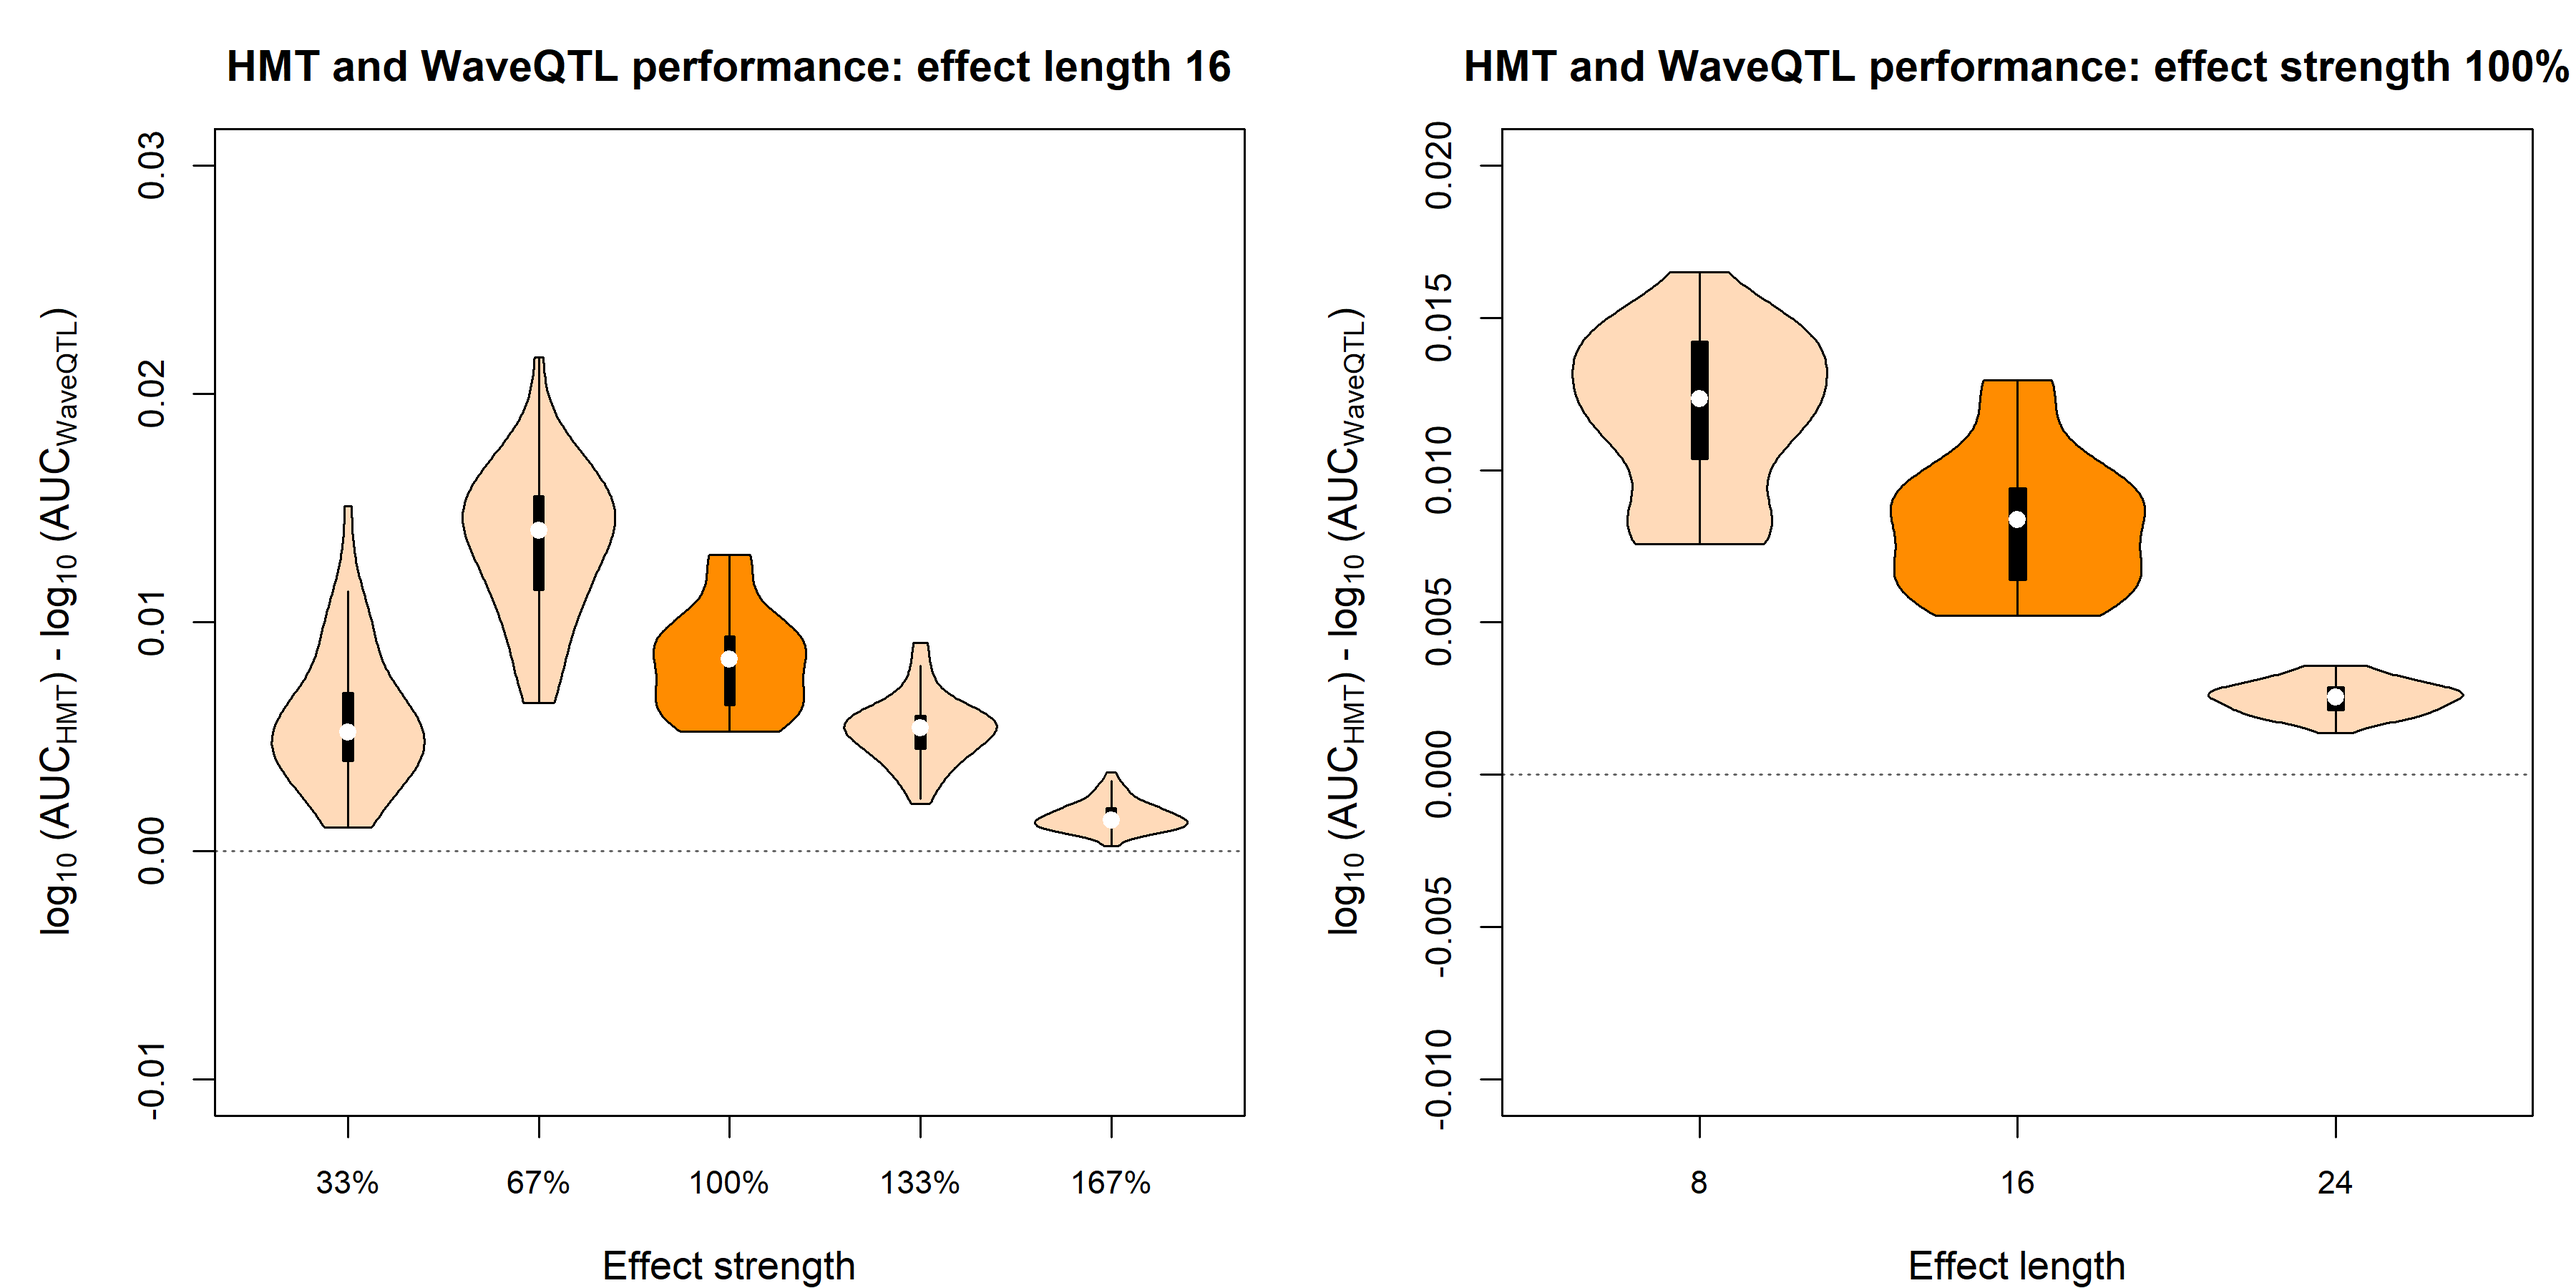
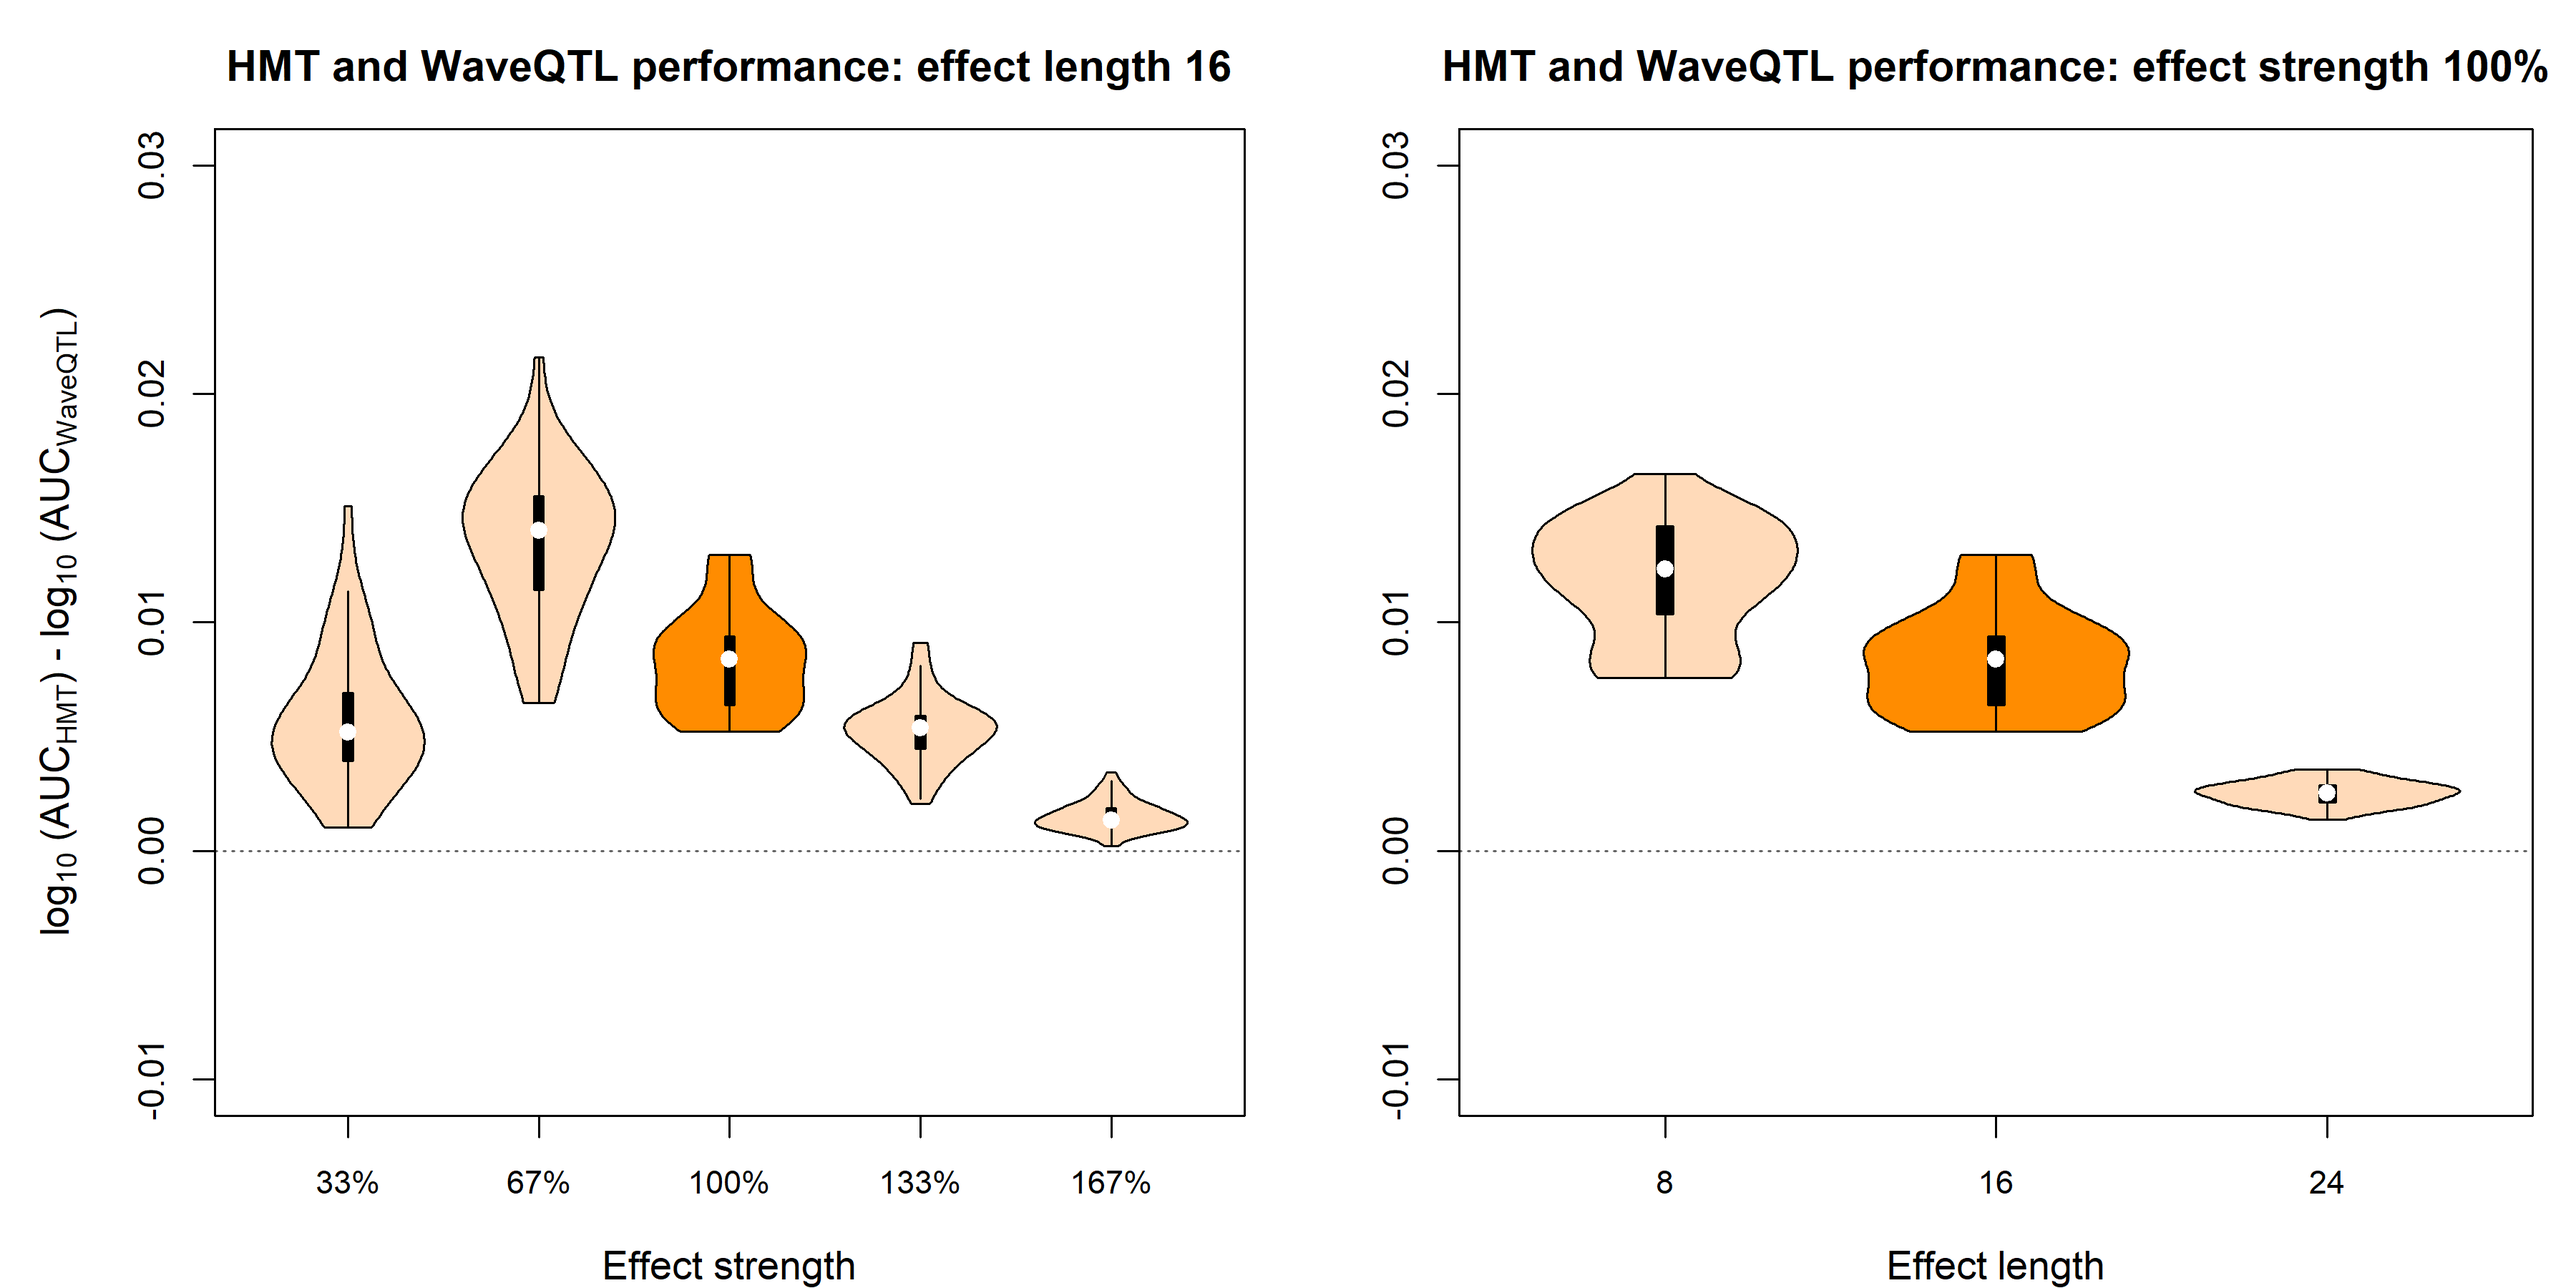
updated comparison boxplots

diff --git a/scripts/fifty_sims_auroc_length_vs_strength.html b/scripts/fifty_sims_auroc_length_vs_strength.html
@@ -514,9 +514,9 @@ axis(side = 1, at = 1:5
      , cex.axis = 0.9)
 abline(h=0,col=&quot;grey40&quot;,lty=3)
 box()
-par(mar = c(4, 5, 3, 1))
-plot(0,0,type=&quot;n&quot;,xlim=c(0.5,3.5), ylim = c(-0.01,0.02),
-     axes=FALSE, ylab = ylab_expr, cex.lab = 1.1, xlab = &quot;Effect length&quot;,
+par(mar = c(4, 4, 3, 1))
+plot(0,0,type=&quot;n&quot;,xlim=c(0.5,3.5), ylim = c(-0.01,0.03),
+     axes=FALSE, ylab = &quot;&quot;, cex.lab = 1.1, xlab = &quot;Effect length&quot;,
      main=&quot;HMT and WaveQTL performance: effect strength 100%&quot;)
 vioplot(
   sim_diff_data[sim_diff_data$effect_length == 8 &amp; sim_diff_data$effect_strength == &#39;100%&#39;,&quot;auroc&quot;]
